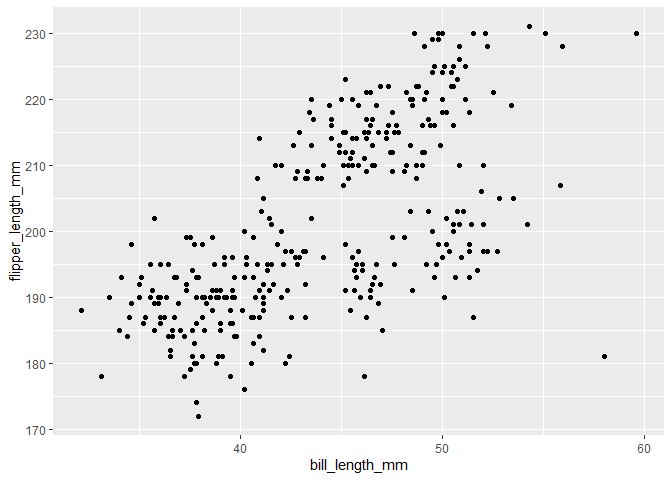
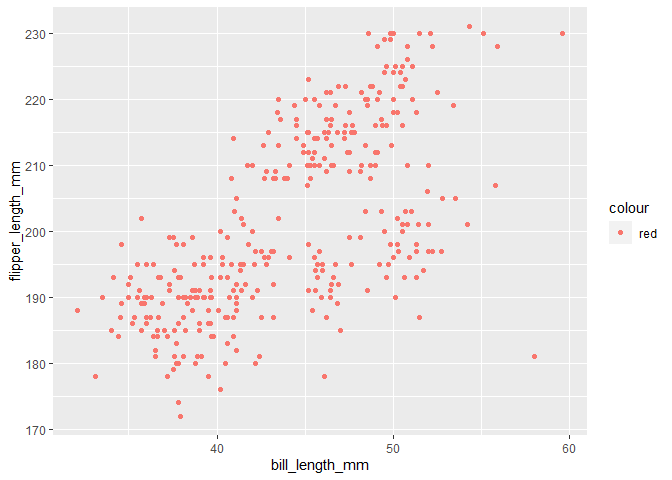
finished 2 problems

diff --git a/p8105_hw1_yf2555.md b/p8105_hw1_yf2555.md
@@ -37,13 +37,13 @@ prob1_df =
 mean(pull(prob1_df, samp))
 ```
 
-    ## [1] 0.2060217
+    ## [1] -0.2758496
 
 ``` r
 mean(pull(prob1_df, samp_gt_0))
 ```
 
-    ## [1] 0.7
+    ## [1] 0.4
 
 ``` r
 mean(pull(prob1_df, char_vec))
@@ -69,14 +69,14 @@ I can take the mean of numbers and logical, but not character or factor.
 as.numeric(pull(prob1_df, samp))
 ```
 
-    ##  [1]  0.4821513  0.9669746  1.0000257 -0.8586026 -1.7674730 -0.5837904
-    ##  [7]  0.2442985  0.7056608  0.2143796  1.6565926
+    ##  [1] -0.3351061  0.2841436 -1.0435398 -0.7960998  0.7210829 -0.5149740
+    ##  [7]  0.3828934  0.1913565 -0.7344771 -0.9137756
 
 ``` r
 as.numeric(pull(prob1_df, samp_gt_0))
 ```
 
-    ##  [1] 1 1 1 0 0 0 1 1 1 1
+    ##  [1] 0 1 0 0 1 0 1 1 0 0
 
 ``` r
 as.numeric(pull(prob1_df, char_vec))
@@ -101,8 +101,8 @@ variables, but not character or factor variables.
 as.numeric(pull(prob1_df, samp_gt_0)) * pull(prob1_df, samp)
 ```
 
-    ##  [1] 0.4821513 0.9669746 1.0000257 0.0000000 0.0000000 0.0000000 0.2442985
-    ##  [8] 0.7056608 0.2143796 1.6565926
+    ##  [1] 0.0000000 0.2841436 0.0000000 0.0000000 0.7210829 0.0000000 0.3828934
+    ##  [8] 0.1913565 0.0000000 0.0000000
 
 ``` r
 as.factor(pull(prob1_df, samp_gt_0)) * pull(prob1_df, samp)
@@ -117,31 +117,61 @@ as.factor(pull(prob1_df, samp_gt_0)) * pull(prob1_df, samp)
 as.numeric(as.factor(pull(prob1_df, samp_gt_0))) * pull(prob1_df, samp)
 ```
 
-    ##  [1]  0.9643025  1.9339493  2.0000514 -0.8586026 -1.7674730 -0.5837904
-    ##  [7]  0.4885969  1.4113216  0.4287591  3.3131851
+    ##  [1] -0.3351061  0.5682872 -1.0435398 -0.7960998  1.4421659 -0.5149740
+    ##  [7]  0.7657868  0.3827130 -0.7344771 -0.9137756
 
 # Problem 2
+
+## load the dataset
 
 ``` r
 data("penguins", package = "palmerpenguins")
 ```
 
-\*\*\*\*\*\*\*the data in this dataset, including names / values of
-important variables
+## description
 
-The size of the dataset has 344 rows and 8 columns.
+  - The dataset includes 8 variables as: species, island,
+    bill\_length\_mm, bill\_depth\_mm, flipper\_length\_mm,
+    body\_mass\_g, sex, year.
+    
+      - Adelie, Chinstrap, Gentoo are the three species recorded in the
+        dataset.
+      - The sex is recorded as female, male.
+      - The bill length ranges between 32.1, 59.6 in millimeters; the
+        bill depth ranges from 13.1, 21.5 in millimeters; the flipper
+        length ranges from 172, 231 in millimeters; and body mass ranges
+        between 2700, 6300 in grams.
 
-The mean of flipper length is 200.9152047 mm.
+  - The size of the dataset has 344 rows and 8 columns.
 
-Make a scatterplot of flipper\_length\_mm (y) vs bill\_length\_mm (x);
-color points using the species variable (adding color = … inside of aes
-in your ggplot code should help). Export your first scatterplot to your
-project directory using ggsave
+  - The mean of flipper length is 200.9152047 mm.
+
+## scatterplot graphing
 
 ``` r
-ggplot(penguins, aes(x = bill_length_mm, y = flipper_length_mm), color = penguins$species, na.rm = TRUE) + geom_point()
+ggplot(penguins, aes(x = bill_length_mm, y = flipper_length_mm, color = "red"), na.rm = TRUE) + geom_point()
 ```
 
     ## Warning: Removed 2 rows containing missing values (geom_point).
 
 ![](p8105_hw1_yf2555_files/figure-gfm/scatterplot-1.png)<!-- -->
+
+``` r
+ggsave("hw1_penguins_scatterplot.pdf")
+```
+
+    ## Saving 7 x 5 in image
+
+    ## Warning: Removed 2 rows containing missing values (geom_point).
+
+``` r
+range(pull(penguins,bill_length_mm))
+```
+
+    ## [1] NA NA
+
+``` r
+range(penguins$bill_length_mm, na.rm = TRUE)
+```
+
+    ## [1] 32.1 59.6
